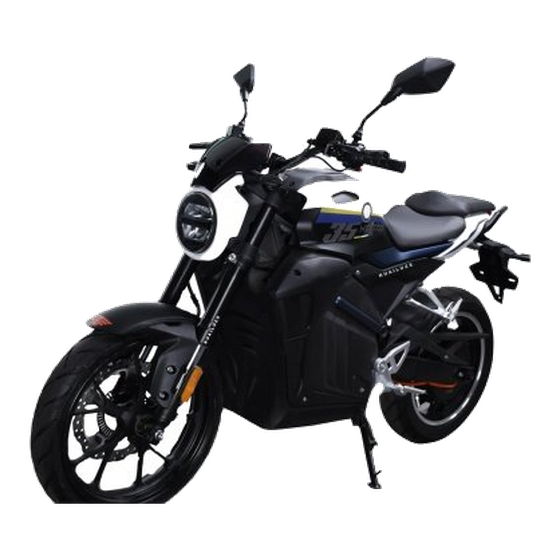
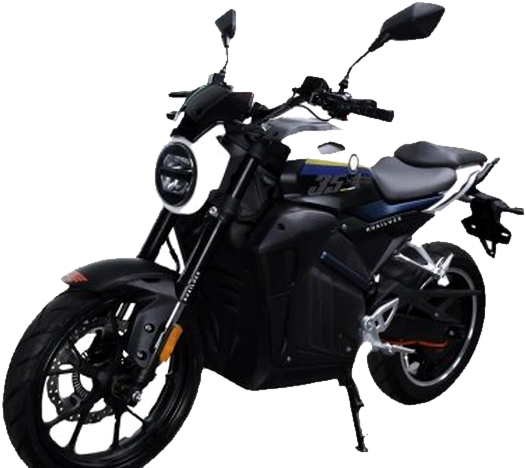
Price policy, condition order, combined bike breakdown, premium bike hero
- New MiStore price policy: round every displayed price UP to the nearest
  ₦5,000. Under ₦1,000,000 shows as '₦255k'; ₦1,000,000+ shows the full
  number with no 'k' (e.g. ₦1,075,000). Applied across phone and bike
  cards, condition options, big prices, cart, checkout, search and hero
  'starting from'. Cost breakdowns stay exact.
- Reorder phone conditions to Clean → Battery Display → Screen Display →
  Double Display; 'Save' now derives from the rounded prices so figures
  always reconcile.
- Bike price breakdown combines logistics + service into a single line:
  'Logistics & services: ₦60,000'.
- Bikes hero is now a premium, well-trimmed sport-motorcycle photo on a
  studio background (no 3D), with a defringed transparent cutout.

Claude-Session: https://claude.ai/code/session_017tuea2CbXtACAntAtBMu5J

diff --git a/bikes.html b/bikes.html
@@ -174,6 +174,26 @@
   .wabtn{width:100%;border:none;background:#1FAA53;color:#fff;border-radius:15px;padding:16px;font-weight:800;font-size:15.5px;margin-top:14px;box-shadow:0 12px 26px rgba(31,170,83,.28);}
   .disc{font-size:11.5px;color:var(--faint);text-align:center;margin-top:10px;}
 
+  /* premium bike hero (real trimmed photo on a studio background — no 3D) */
+  .bikehero{margin:16px 0 6px;border-radius:26px;overflow:hidden;position:relative;color:#fff;
+    background:radial-gradient(125% 130% at 82% 8%, #17352a 0%, #101820 42%, #0a0a0e 72%, #08080b 100%);
+    box-shadow:var(--shadow-lg);}
+  .bikehero::before{content:"";position:absolute;right:2%;bottom:2%;width:66%;height:78%;
+    background:radial-gradient(circle at 60% 60%, rgba(48,209,88,.20), transparent 62%);pointer-events:none;}
+  .bhinner{display:flex;align-items:center;gap:18px;padding:38px 34px;flex-wrap:wrap;position:relative;z-index:1;}
+  .bhtext{flex:1 1 300px;min-width:250px;}
+  .bhtext .eyebrow{display:inline-block;font-size:11px;font-weight:700;letter-spacing:.14em;text-transform:uppercase;color:#5FE39A;background:rgba(48,209,88,.14);border:1px solid rgba(48,209,88,.25);border-radius:999px;padding:6px 13px;}
+  .bhtext h1{font-size:clamp(34px,6.4vw,54px);letter-spacing:-.045em;line-height:1.03;margin:16px 0 12px;font-weight:800;color:#fff;}
+  .bhtext p{color:rgba(255,255,255,.72);font-size:16px;max-width:40ch;margin:0;line-height:1.5;}
+  .bikehero .heroctas{justify-content:flex-start;}
+  .bikehero .cta{background:#fff;color:#0A0A0E;box-shadow:0 12px 30px rgba(0,0,0,.35);}
+  .bikehero .cta.ghost{background:rgba(255,255,255,.06);color:#fff;border:1px solid rgba(255,255,255,.28);}
+  .bhstage{flex:1 1 320px;position:relative;display:flex;align-items:center;justify-content:center;min-height:230px;}
+  .bhbike{width:100%;max-width:470px;z-index:1;filter:drop-shadow(0 34px 44px rgba(0,0,0,.6));animation:bhfloat 6s ease-in-out infinite;}
+  .bhstage::after{content:"";position:absolute;bottom:9%;left:50%;transform:translateX(-50%);width:64%;height:24px;background:radial-gradient(ellipse at center, rgba(0,0,0,.6), transparent 70%);filter:blur(7px);z-index:0;}
+  @keyframes bhfloat{0%,100%{transform:translateY(0);}50%{transform:translateY(-9px);}}
+  @media (max-width:720px){ .bhinner{padding:30px 22px 8px;flex-direction:column;text-align:center;} .bhtext{min-width:0;} .bhtext p{margin:0 auto;} .bikehero .heroctas{justify-content:center;} .bhstage{width:100%;min-height:200px;} .bhbike{max-width:340px;} }
+
   @media (max-width:640px){ .navlinks{display:none;} .specs{grid-template-columns:1fr 1fr;} }
   @media (max-width:500px){ .bgrid{grid-template-columns:repeat(2,1fr);gap:12px;} .bname{font-size:14px;} .bprice{font-size:15px;} }
   @media (prefers-reduced-motion:reduce){ *{transition:none!important;animation:none!important;} }
@@ -200,13 +220,20 @@
 </header>
 
 <div class="wrap">
-  <section class="hero">
-    <span class="eyebrow">Electric Mobility</span>
-    <h1>Ride smarter.</h1>
-    <p>A curated collection of electric bikes and motorcycles — honestly priced and shipped to your door anywhere in Nigeria.</p>
-    <div class="heroctas">
-      <button class="cta" id="heroShop">Browse the collection</button>
-      <a class="cta ghost" href="index.html">Shop iPhones</a>
+  <section class="bikehero">
+    <div class="bhinner">
+      <div class="bhtext">
+        <span class="eyebrow">Electric Mobility</span>
+        <h1>Ride smarter.</h1>
+        <p>Premium electric bikes and motorcycles — honestly priced and delivered to your door anywhere in Nigeria.</p>
+        <div class="heroctas">
+          <button class="cta" id="heroShop">Browse the collection</button>
+          <a class="cta ghost" href="index.html">Shop iPhones</a>
+        </div>
+      </div>
+      <div class="bhstage">
+        <img class="bhbike" src="assets/bikes/hero-bike.png" alt="Premium electric sport motorcycle" onerror="this.style.display='none'">
+      </div>
     </div>
   </section>
 
@@ -256,7 +283,11 @@ let sel = null, selOpt = 0, selImg = 0;
 
 const $=id=>document.getElementById(id);
 function esc(s){ return String(s==null?'':s).replace(/[&<>"'`]/g,c=>({'&':'&amp;','<':'&lt;','>':'&gt;','"':'&quot;',"'":'&#39;','`':'&#96;'}[c])); }
-function fmt(n){ return '₦'+Math.round(n).toLocaleString(); }
+/* MiStore price policy: round displayed prices UP to the nearest ₦5,000.
+   Under ₦1,000,000 → "₦515k"; ₦1,000,000+ → full number, no k. */
+function roundPrice(n){ return Math.ceil((+n||0)/5000)*5000; }
+function fmt(n){ const r=roundPrice(n); return r>=1000000?('₦'+r.toLocaleString()):('₦'+(r/1000)+'k'); }
+function fmtExact(n){ return '₦'+Math.round(n).toLocaleString(); }
 function fmtK(n){ return n>=1000000?('₦'+(n/1000000).toFixed(2).replace(/\.?0+$/,'')+'m'):('₦'+Math.round(n/1000)+'k'); }
 function imgUrl(p){ return IMG_BASE+p; }
 
@@ -430,7 +461,8 @@ function renderBreak(){
   const rate=rateFor(cur);
   const shipping=(p.cbm||0)*CONFIG.shipping_per_cbm_ngn;
   const cost=(fob||0)*rate;
-  $('dBreak').innerHTML=`Product cost: <b>${fmt(cost)}</b> (${cur==='RMB'?'¥':'$'}${fob} × ${rate})<br>Shipping (${(p.cbm||0).toFixed(3)} CBM): <b>${fmt(shipping)}</b><br>Logistics: <b>${fmt(CONFIG.logistics_ngn)}</b> · Service: <b>${fmt(CONFIG.profit_ngn)}</b>`;
+  const logserv=(CONFIG.logistics_ngn||0)+(CONFIG.profit_ngn||0);
+  $('dBreak').innerHTML=`Product cost: <b>${fmtExact(cost)}</b> (${cur==='RMB'?'¥':'$'}${fob} × ${rate})<br>Shipping (${(p.cbm||0).toFixed(3)} CBM): <b>${fmtExact(shipping)}</b><br>Logistics &amp; services: <b>${fmtExact(logserv)}</b>`;
 }
 function orderWhatsApp(){
   const p=sel; const opts=optionsOf(p);

diff --git a/index.html b/index.html
@@ -958,8 +958,8 @@ const CATALOG_MODELS = [
 ];
 const CONDITIONS = [
   { key:'clean',   name:'Clean (London Used)', short:'Original parts',   pick:'Original screen & battery · like new',  long:'<b>Clean (London Used).</b> Original screen and battery, clean body, premium overall condition. Best choice for buyers who want the closest experience to a brand-new iPhone.' },
-  { key:'screen',  name:'Screen Display',      short:'Replaced screen',  pick:'Screen professionally replaced',        long:'<b>Screen Display.</b> Screen professionally replaced — bright display and responsive touch at a lower price.' },
   { key:'battery', name:'Battery Display',     short:'Replaced battery', pick:'Battery professionally replaced',       long:'<b>Battery Display.</b> Battery replaced for reliable charge performance and smooth daily use.' },
+  { key:'screen',  name:'Screen Display',      short:'Replaced screen',  pick:'Screen professionally replaced',        long:'<b>Screen Display.</b> Screen professionally replaced — bright display and responsive touch at a lower price.' },
   { key:'double',  name:'Double Display',      short:'Screen + battery', pick:'Screen & battery replaced',             long:'<b>Double Display.</b> Screen and battery both replaced. Fully functional — the best-value option.' }
 ];
 const COLORS = ["No preference","Black","White / Silver","Blue","Green","Gold","Purple","Red","Pink","Titanium"];
@@ -1335,8 +1335,13 @@ async function loadLive(){
    ============================================================ */
 const $=id=>document.getElementById(id);
 function esc(s){ return String(s==null?'':s).replace(/[&<>"'`]/g,c=>({'&':'&amp;','<':'&lt;','>':'&gt;','"':'&quot;',"'":'&#39;','`':'&#96;'}[c])); }
-function fmtK(n){ return n>=1000000?('₦'+n.toLocaleString()):('₦'+Math.floor(n/1000)+'k'); }
-function fmtFull(n){ return '₦'+Math.round(n).toLocaleString(); }
+/* MiStore price policy: round every displayed price UP to the nearest ₦5,000.
+   Under ₦1,000,000 → show as "₦255k"; ₦1,000,000+ → full number, no k. */
+function roundPrice(n){ return Math.ceil((+n||0)/5000)*5000; }
+function fmtK(n){ const r=roundPrice(n); return r>=1000000?('₦'+r.toLocaleString()):('₦'+(r/1000)+'k'); }
+function fmtFull(n){ const r=roundPrice(n); return r>=1000000?('₦'+r.toLocaleString()):('₦'+(r/1000)+'k'); }
+/* exact naira (no rounding) — for internal breakdowns only */
+function fmtExact(n){ return '₦'+Math.round(n).toLocaleString(); }
 function condDef(k){ return CONDITIONS.find(c=>c.key===k)||CONDITIONS[0]; }
 
 let dept='phones';
@@ -1496,7 +1501,9 @@ function condOptsHTML(){
   const baseP=condPickPrice(sel.model,'clean',sel.mem);
   return avail.map(cd=>{
     const p=condPickPrice(sel.model,cd.key,sel.mem);
-    const save=(cd.key!=='clean'&&baseP&&p&&baseP>p)?baseP-p:0;
+    /* Save is the gap between the ROUNDED prices so it always matches the
+       rounded figures shown to the customer. */
+    const save=(cd.key!=='clean'&&baseP&&p&&roundPrice(baseP)>roundPrice(p))?roundPrice(baseP)-roundPrice(p):0;
     return `<button class="copt ${cd.key===sel.cond?'on':''}" data-pcond="${cd.key}">
       <span class="rad"></span>
       <span class="cinf"><span class="cnm">${esc(cd.name)}</span><span class="cds">${esc(cd.pick)}</span></span>